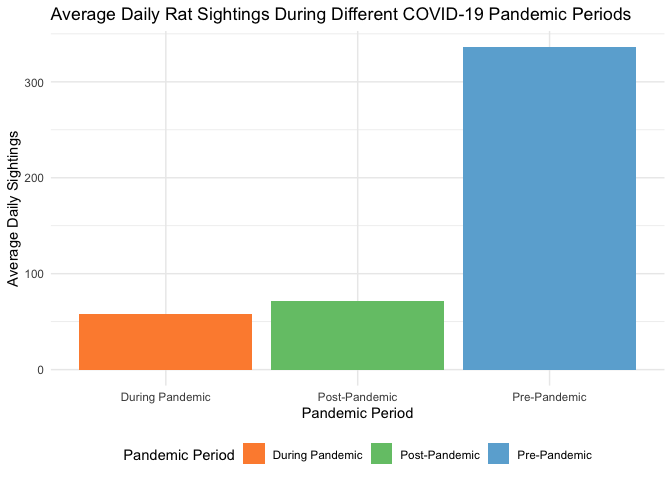
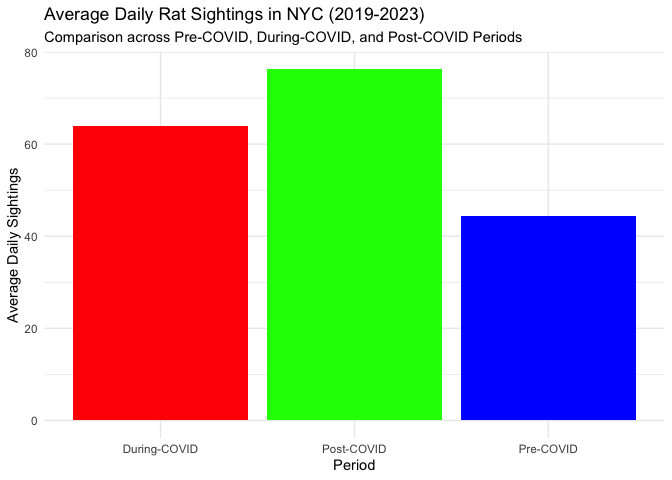
updated graphs with increasing rat sighting after covid

diff --git a/finalproject_graphs.md b/finalproject_graphs.md
@@ -163,134 +163,77 @@ sightings. This section analyzes the rat sightings data to observe
 potential shifts in rat populations across the city’s boroughs during
 the pre-pandemic, pandemic, and post-pandemic periods.
 
-### Defining Pandemic Periods for Analysis
+### General Analysis
 
 ``` r
-# Define the dates for the COVID-19 pandemic periods in New York City
-pre_pandemic_start <- as.Date("2019-01-01")
-pre_pandemic_end <- as.Date("2020-02-29")
-pandemic_start <- as.Date("2020-03-01")
-pandemic_end <- as.Date("2021-12-31")
-post_pandemic_start <- as.Date("2022-01-01")
+rat_data$Year <- year(rat_data$Created_Date)
+# Aggregate the number of sightings per year
+yearly_sightings <- rat_data %>%
+  group_by(Year) %>%
+  summarise(Count = n(), .groups = 'drop')
 
-# Classify each sighting by pandemic period
-rat_data$Pandemic_Period <- case_when(
-  rat_data$Created_Date < pandemic_start ~ "Pre-Pandemic",
-  rat_data$Created_Date >= pandemic_start & rat_data$Created_Date <= pandemic_end ~ "During Pandemic",
-  rat_data$Created_Date > pandemic_end ~ "Post-Pandemic",
-  TRUE ~ NA_character_
-)
+# The data must be ungrouped before plotting in some ggplot2 versions
+yearly_sightings <- ungroup(yearly_sightings)
+
+# Plotting the number of rat sightings per year with enhancements
+max_count <- max(yearly_sightings$Count)
+ggplot(yearly_sightings, aes(x = Year, y = Count)) +
+  geom_col(fill = "#69b3a2") +
+  geom_vline(xintercept = 2020, linetype="dashed", color = "#e36bae", size=1.5) +
+  geom_text(aes(x = 2020, y = max_count - 5000, label = "COVID"),  # Adjust position here
+            color = "#e36bae", vjust = 1, angle = 90, size = 4, fontface = "bold") +
+  scale_x_continuous(breaks = yearly_sightings$Year, labels = scales::label_wrap(5)) +
+  scale_y_continuous(labels = scales::comma) +
+  labs(title = 'Yearly Rat Sightings in New York City',
+       subtitle = "An increase in sightings is observed around the start of COVID.",
+       x = 'Year',
+       y = 'Number of Sightings',
+       caption = "Data source: NYC Open Data") +
+  theme_minimal() +
+  theme(
+    plot.title = element_text(size = 20, face = "bold", hjust = 0.5),
+    plot.subtitle = element_text(size = 14),
+    axis.text.x = element_text(angle = 45, vjust = 1, hjust=1),
+    axis.title = element_text(size = 16),
+    legend.position = "none",
+    plot.caption = element_text(hjust = 0, vjust = 1)
+  )
 ```
 
-### Visualizing Rat Sightings during Different Pandemic Period
+![](finalproject_graphs_files/figure-gfm/covid-preprocessing-1.png)<!-- -->
 
-General Plot (Overall Trends): \* Objective: To observe the overall
-trend of rat sightings in New York City during different periods of the
-COVID-19 pandemic. \* Method: Aggregate the total number of rat
-sightings for each pandemic period across all boroughs. Then, normalize
-this data by calculating the average daily sightings to account for the
-varying lengths of each period. \* Plot Type: A bar chart where each bar
-represents a different pandemic period (Pre-pandemic, During Pandemic,
-Post-pandemic), showing the average daily number of sightings.
+### Daily Rat Sightings Comparison
 
 ``` r
-# Calculate the number of days in each pandemic period
-num_days_pre_pandemic <- as.numeric(pandemic_start - pre_pandemic_start)
-num_days_during_pandemic <- as.numeric(pandemic_end - pandemic_start + 1)
-num_days_post_pandemic <- as.numeric(Sys.Date() - post_pandemic_start)
+# Define the pandemic period and the post-pandemic start
+pandemic_start <- as.Date("2020-03-11")
+post_pandemic_start <- as.Date("2023-05-05")
 
-# Aggregate the counts of rat sightings by pandemic period and calculate average daily sightings
-sightings_by_period_overall <- rat_data %>%
-  group_by(Pandemic_Period) %>%
-  summarise(Count = n(), .groups = 'drop') %>%
-  filter(!is.na(Pandemic_Period)) %>%
-  mutate(Avg_Daily_Sightings = Count / case_when(
-    Pandemic_Period == "Pre-Pandemic" ~ num_days_pre_pandemic,
-    Pandemic_Period == "During Pandemic" ~ num_days_during_pandemic,
-    Pandemic_Period == "Post-Pandemic" ~ num_days_post_pandemic
+# Filter the data for the analysis period (2019-2023)
+analysis_data <- rat_data %>%
+  filter(Year >= 2019) %>%
+  mutate(Period = case_when(
+    Created_Date < pandemic_start ~ "Pre-COVID",
+    Created_Date >= pandemic_start & Created_Date < post_pandemic_start ~ "During-COVID",
+    Created_Date >= post_pandemic_start ~ "Post-COVID"
   ))
 
-# Plot the data showing average daily sightings for each pandemic period
-ggplot(sightings_by_period_overall, aes(x = Pandemic_Period, y = Avg_Daily_Sightings, fill = Pandemic_Period)) +
+# Calculate the daily sightings for each period
+daily_sightings <- analysis_data %>%
+  count(Period, Date = as.Date(Created_Date)) %>%
+  group_by(Period) %>%
+  summarise(Avg_Daily_Sightings = mean(n), .groups = 'drop')
+
+# Plot the average daily sightings for each period
+ggplot(daily_sightings, aes(x = Period, y = Avg_Daily_Sightings, fill = Period)) +
   geom_bar(stat = "identity") +
-  scale_fill_manual(values = c("Pre-Pandemic" = "#6baed6", "During Pandemic" = "#fd8d3c", "Post-Pandemic" = "#74c476")) +
-  labs(title = 'Average Daily Rat Sightings During Different COVID-19 Pandemic Periods',
-       x = 'Pandemic Period',
-       y = 'Average Daily Sightings',
-       fill = 'Pandemic Period') +
+  scale_fill_manual(values = c("Pre-COVID" = "blue", "During-COVID" = "red", "Post-COVID" = "green")) +
+  labs(title = 'Average Daily Rat Sightings in NYC (2019-2023)',
+       subtitle = "Comparison across Pre-COVID, During-COVID, and Post-COVID Periods",
+       x = 'Period',
+       y = 'Average Daily Sightings') +
   theme_minimal() +
-  theme(legend.position = "bottom")
+  theme(legend.position = "none")
 ```
 
 ![](finalproject_graphs_files/figure-gfm/unnamed-chunk-4-1.png)<!-- -->
-
-### Interpretation of Rat Sightings During COVID-19 Pandemic Periods
-
-The bar chart above provides a comparison of average daily rat sightings
-in New York City across three distinct periods related to the COVID-19
-pandemic: during, post, and pre-pandemic. Notably, the average daily
-sightings were highest before the pandemic, which may reflect normal
-urban activity and waste production providing ample food sources for
-rats. Sightings dipped during the pandemic, likely due to the closure of
-restaurants and reduced pedestrian traffic, which may have limited food
-availability for the rat population. Although sightings have increased
-in the post-pandemic period, they have not returned to pre-pandemic
-levels, suggesting a lasting impact of the pandemic on rat sightings or
-possibly continued changes in human behavior and waste management.
-
-### Visualizing Rat Sightings by Borough during Different Pandemic Period
-
-By Borough Plot (Specific Trends): \* Objective: To compare rat sighting
-trends across different boroughs of New York City during the COVID-19
-pandemic. \* Method: Group the data by both borough and pandemic period.
-Calculate the average daily sightings for each borough in each period.
-This approach reveals if some boroughs experienced more significant
-changes in rat sightings than others during the pandemic. \* Plot Type:
-A grouped bar chart with each group representing a borough and each bar
-within the group representing a different pandemic period. This
-visualization allows for a direct comparison of sighting trends across
-boroughs and periods.
-
-``` r
-# Aggregate the counts of rat sightings by borough and pandemic period, then calculate average daily sightings
-sightings_by_borough_period <- rat_data %>%
-  group_by(Borough, Pandemic_Period) %>%
-  summarise(Count = n(), .groups = 'drop') %>%
-  filter(!is.na(Pandemic_Period)) %>%
-  mutate(Avg_Daily_Sightings = Count / case_when(
-    Pandemic_Period == "Pre-Pandemic" ~ num_days_pre_pandemic,
-    Pandemic_Period == "During Pandemic" ~ num_days_during_pandemic,
-    Pandemic_Period == "Post-Pandemic" ~ num_days_post_pandemic
-  ))
-
-# Plot the data showing average daily sightings by borough for each pandemic period
-ggplot(sightings_by_borough_period, aes(x = Borough, y = Avg_Daily_Sightings, fill = Pandemic_Period)) +
-  geom_bar(stat = "identity", position = "dodge") +
-  scale_fill_manual(values = c("Pre-Pandemic" = "#6baed6", "During Pandemic" = "#fd8d3c", "Post-Pandemic" = "#74c476")) +
-  labs(title = 'Average Daily Rat Sightings by Borough During Different Pandemic Periods',
-       x = 'Borough',
-       y = 'Average Daily Sightings',
-       fill = 'Pandemic Period') +
-  theme_minimal() +
-  theme(axis.text.x = element_text(angle = 45, hjust = 1)) +
-  theme(legend.position = "bottom")
-```
-
-![](finalproject_graphs_files/figure-gfm/unnamed-chunk-5-1.png)<!-- -->
-
-### Interpretation of Average Daily Rat Sightings by Borough During Pandemic Periods
-
-The bar chart above contrasts the average daily rat sightings across New
-York City boroughs before, during, and after the COVID-19 pandemic.
-Brooklyn stands out with the highest average sightings in the
-pre-pandemic period, indicating a substantial rat population or
-heightened reporting activity. A decline in sightings is noted during
-the pandemic across all boroughs, likely a result of the pandemic’s
-disruptions to normal urban life and its impact on rat foraging
-behaviors. The post-pandemic period sees a continuation of this reduced
-level of sightings, suggesting potential long-term effects of the
-pandemic on rat activity or the success of pest control measures
-implemented during this time. The data also includes an ‘Unspecified’
-category, denoting sightings that could not be allocated to a particular
-borough, highlighting a need for better data classification in future
-analyses.
